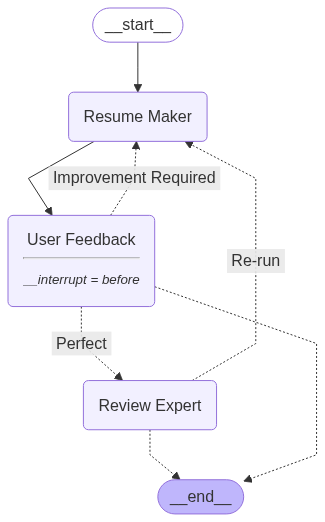
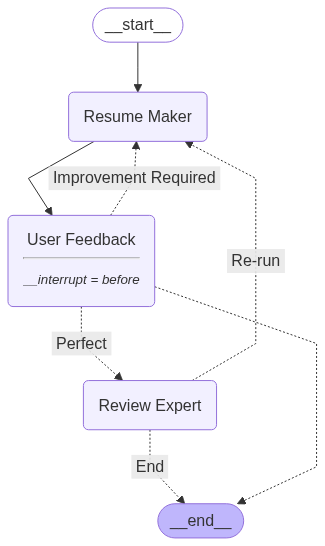
improved log

diff --git a/LLMbackend/llm.py b/LLMbackend/llm.py
@@ -14,6 +14,12 @@ res_debug = logging.getLogger('create_resume')
 res_debug.setLevel(logging.DEBUG)
 # ======================================= #
 
+def show_message(current_state):
+    message = current_state.values['resume']
+    if hasattr(message,'resume'):
+        return current_state.values['resume'].resume
+    return message
+
 class Option_page:
     def __init__(self):
         pass  
@@ -61,11 +67,10 @@ class Option_page:
 
             # After Interrupt -->
             current_state = st.session_state.work_flow.get_state(config = st.session_state.config)
+            # Show Output
             with st.chat_message('ai'):
-                try:
-                    st.write(current_state.values["resume"].resume)
-                except:
-                    st.write(current_state.values["resume"])
+                message = show_message(current_state)
+                st.write(message)
 
             user_suggestion = st.text_area('Enter either your are satisfied or improvement is required')
             if st.button('Next', key = 'User_suggestion'):
@@ -79,9 +84,20 @@ class Option_page:
         elif st.session_state.state == 'Agent': 
             res_debug.debug('Agent Inteface') # log 
             current_state = st.session_state.work_flow.get_state(config = st.session_state.config)
-            with st.chat_message('ai'):
-                st.markdown(current_state.values['resume'])
+            message = show_message(current_state)
+
+            # Notepad for edit
+            edit_resume = st.text_area(label="Edit your resume",
+                         value=message,
+                         height=300,
+                         key = "EDIT Resume")
             
+            # Show Output
+            with st.chat_message('ai'):
+                st.write(message)
+            with st.chat_message('user'):
+                st.write(edit_resume)
+
             with st.expander('Call information'):
                 state = st.session_state.work_flow.get_state_history(config = st.session_state.config)
                 st.markdown(state)
@@ -90,7 +106,7 @@ class Option_page:
                 for msg in st.session_state.output_data['message_data']:
                     with st.chat_message(msg.get('role')):
                         st.markdown(msg.get('content'))
-            
+
             # Save .pdf
             # save_resume_as_pdf(current_state.values['resume'])                       
 

diff --git a/LLMbackend/agents.py b/LLMbackend/agents.py
@@ -40,7 +40,7 @@ class vector_db:
         
         vector_db.create_vector_db()
         log.info('Featching Relevant information from vectordb') # log
-        retriever = cls._vectore_db.as_retriever(search_kwargs={'k': 10}, 
+        retriever = cls._vectore_db.as_retriever(search_kwargs={'k': 20}, 
                                                  similarity_score_threshold = 0.3)
         doc_chain = create_stuff_documents_chain(llm = model,
                                                  prompt = prompt, 
@@ -221,11 +221,11 @@ class agents:
         
         output = result.get('answer')
         if output.sentiment == 'Perfect':
-            log.info('Review Agent - Final Resume') # log
+            log.info(f'Review Agent - Final Resume == { result.get("resume")}') # log
             return {'final_resume': result.get('resume')}
             
         elif output.sentiment == 'Improvement Required':
-            log.info('Review Agent - Improvent is required') # log
+            log.info('Review Agent - Improvent is required \nsuggestion: {result.get("suggestion")} \nsentiment: {result.get("sentiment")} \nresume: {result.get("resume")}') # log
             return {'suggestion': result.get('suggestion'), 
                     'sentiment' : result.get('sentiment'), 
                     'resume' : result.get('resume')}
@@ -234,7 +234,7 @@ class agents:
     def rout_after_reviewagent(state: State):
         log.debug('re-rout after_reviewagent') # log
         if state.get('final_resume'):
-            return END
+            return 'End'
         elif state.get('sentiment') == 'Improvement Required':
             return 'Re-run'
     
@@ -352,7 +352,7 @@ class agents:
             .add_edge(START, 'Resume Maker')
             .add_edge('Resume Maker', 'User Feedback')
             .add_conditional_edges('User Feedback', cls.sentiment, {'Perfect': 'Review Expert', 'Improvement Required': 'Resume Maker'})
-            .add_conditional_edges('Review Expert', cls.rout_after_reviewagent, {END : END, 'Re-run' : 'Resume Maker'})
+            .add_conditional_edges('Review Expert', cls.rout_after_reviewagent, {'End' : END, 'Re-run' : 'Resume Maker'})
             .compile(interrupt_before=['User Feedback'], checkpointer = MemorySaver())
         )
         return _graph
